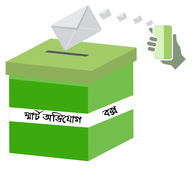
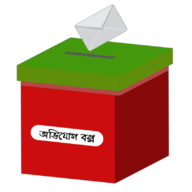
update faviocon, title, valiation

diff --git a/src/app/complaint/page.js b/src/app/complaint/page.js
@@ -365,12 +365,11 @@ const Page = () => {
                                 </label>
                                 <textarea className="textarea textarea-bordered"
                                           disabled={complaintFormik.values.subject === 0}
-
                                           id={"details"}
                                           name={"details"}
                                           value={complaintFormik.values.details}
                                           onChange={complaintFormik.handleChange}
-                                          placeholder="অভিযোগ / মতামত / পরার্মশ এর বিস্তারিত লিখুন "/>
+                                          placeholder="অভিযোগ / মতামত / পরার্মশ এর বিস্তারিত লিখুন (সর্বোচ্চ শব্দ সীমা ৫০০)"/>
                             </div>
 
                         </div>

diff --git a/src/app/layout.js b/src/app/layout.js
@@ -8,7 +8,7 @@ import 'sweetalert2/src/sweetalert2.scss'
 const inter = Inter({subsets: ['latin']})
 
 export const metadata = {
-    title: 'স্মার্ট অভিযোগ বক্সে',
+    title: 'স্মার্ট অভিযোগ বক্স',
     description: 'স্মার্ট অভিযোগ বক্স অ্যাপস হল অনলাইন প্ল্যাটফর্ম /মোবাইল অ্যাপ্লিকেশন, যেটি অভিযোগকারীদের মোবাইল ডিভাইসে ইনস্টল করে " +\n' +
         ' তাদেরকে সহজভাবে অনলাইনে বিভিন্ন ধরনের অভিযোগ যেমন অপরাধ, নির্দোষতা, নির্যাতন, আইনপরামর্শ ইত্যাদি অভিযোগ দাখিল করতে" +\n' +
         ' সাহায্য করে।',

diff --git a/src/utils/validations.js b/src/utils/validations.js
@@ -38,6 +38,9 @@ export function complaint_form_validation(values) {
     else if (!values.complained_to) errors.complained_to = "বাধ্যতামূলক"
     else if (!values.subject) errors.subject = "বাধ্যতামূলক"
     else if (!values.details) errors.details = "বাধ্যতামূলক"
+    else if (values.details.split(" ").length > 500){
+        errors.details = "সর্বোচ্চ শব্দ সীমা ৫০০"
+    }
 
     return errors;
 
